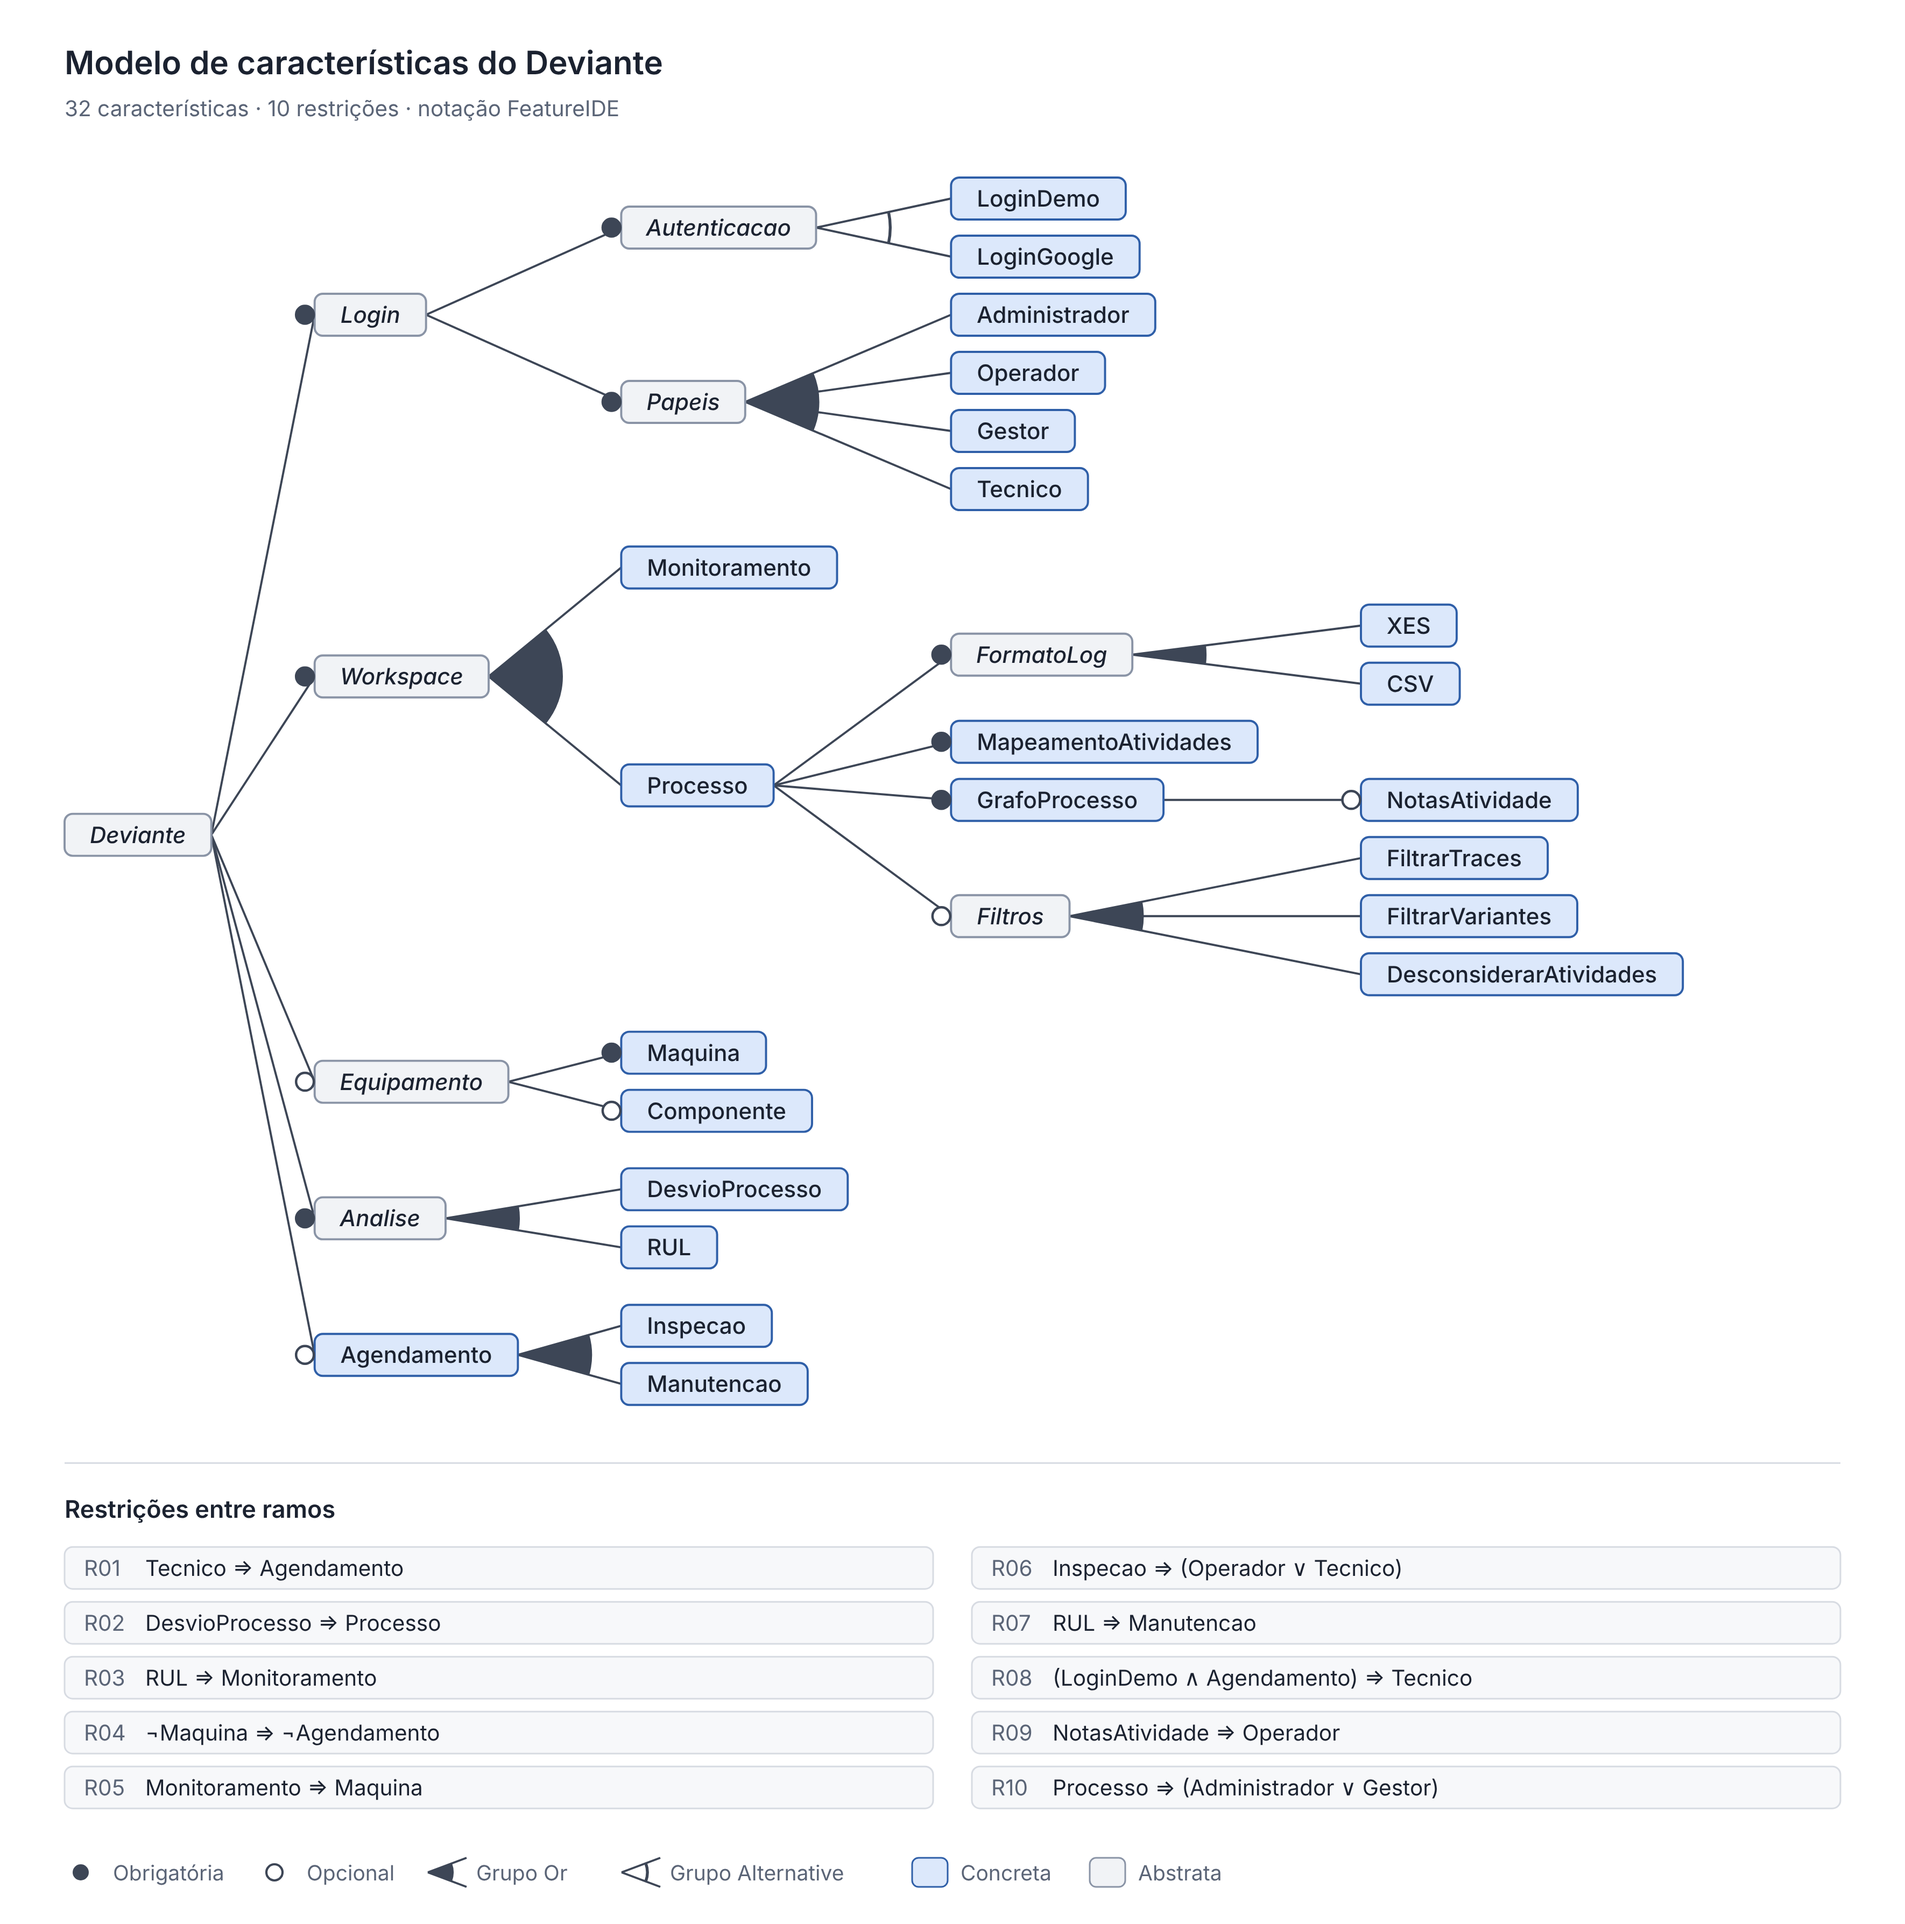
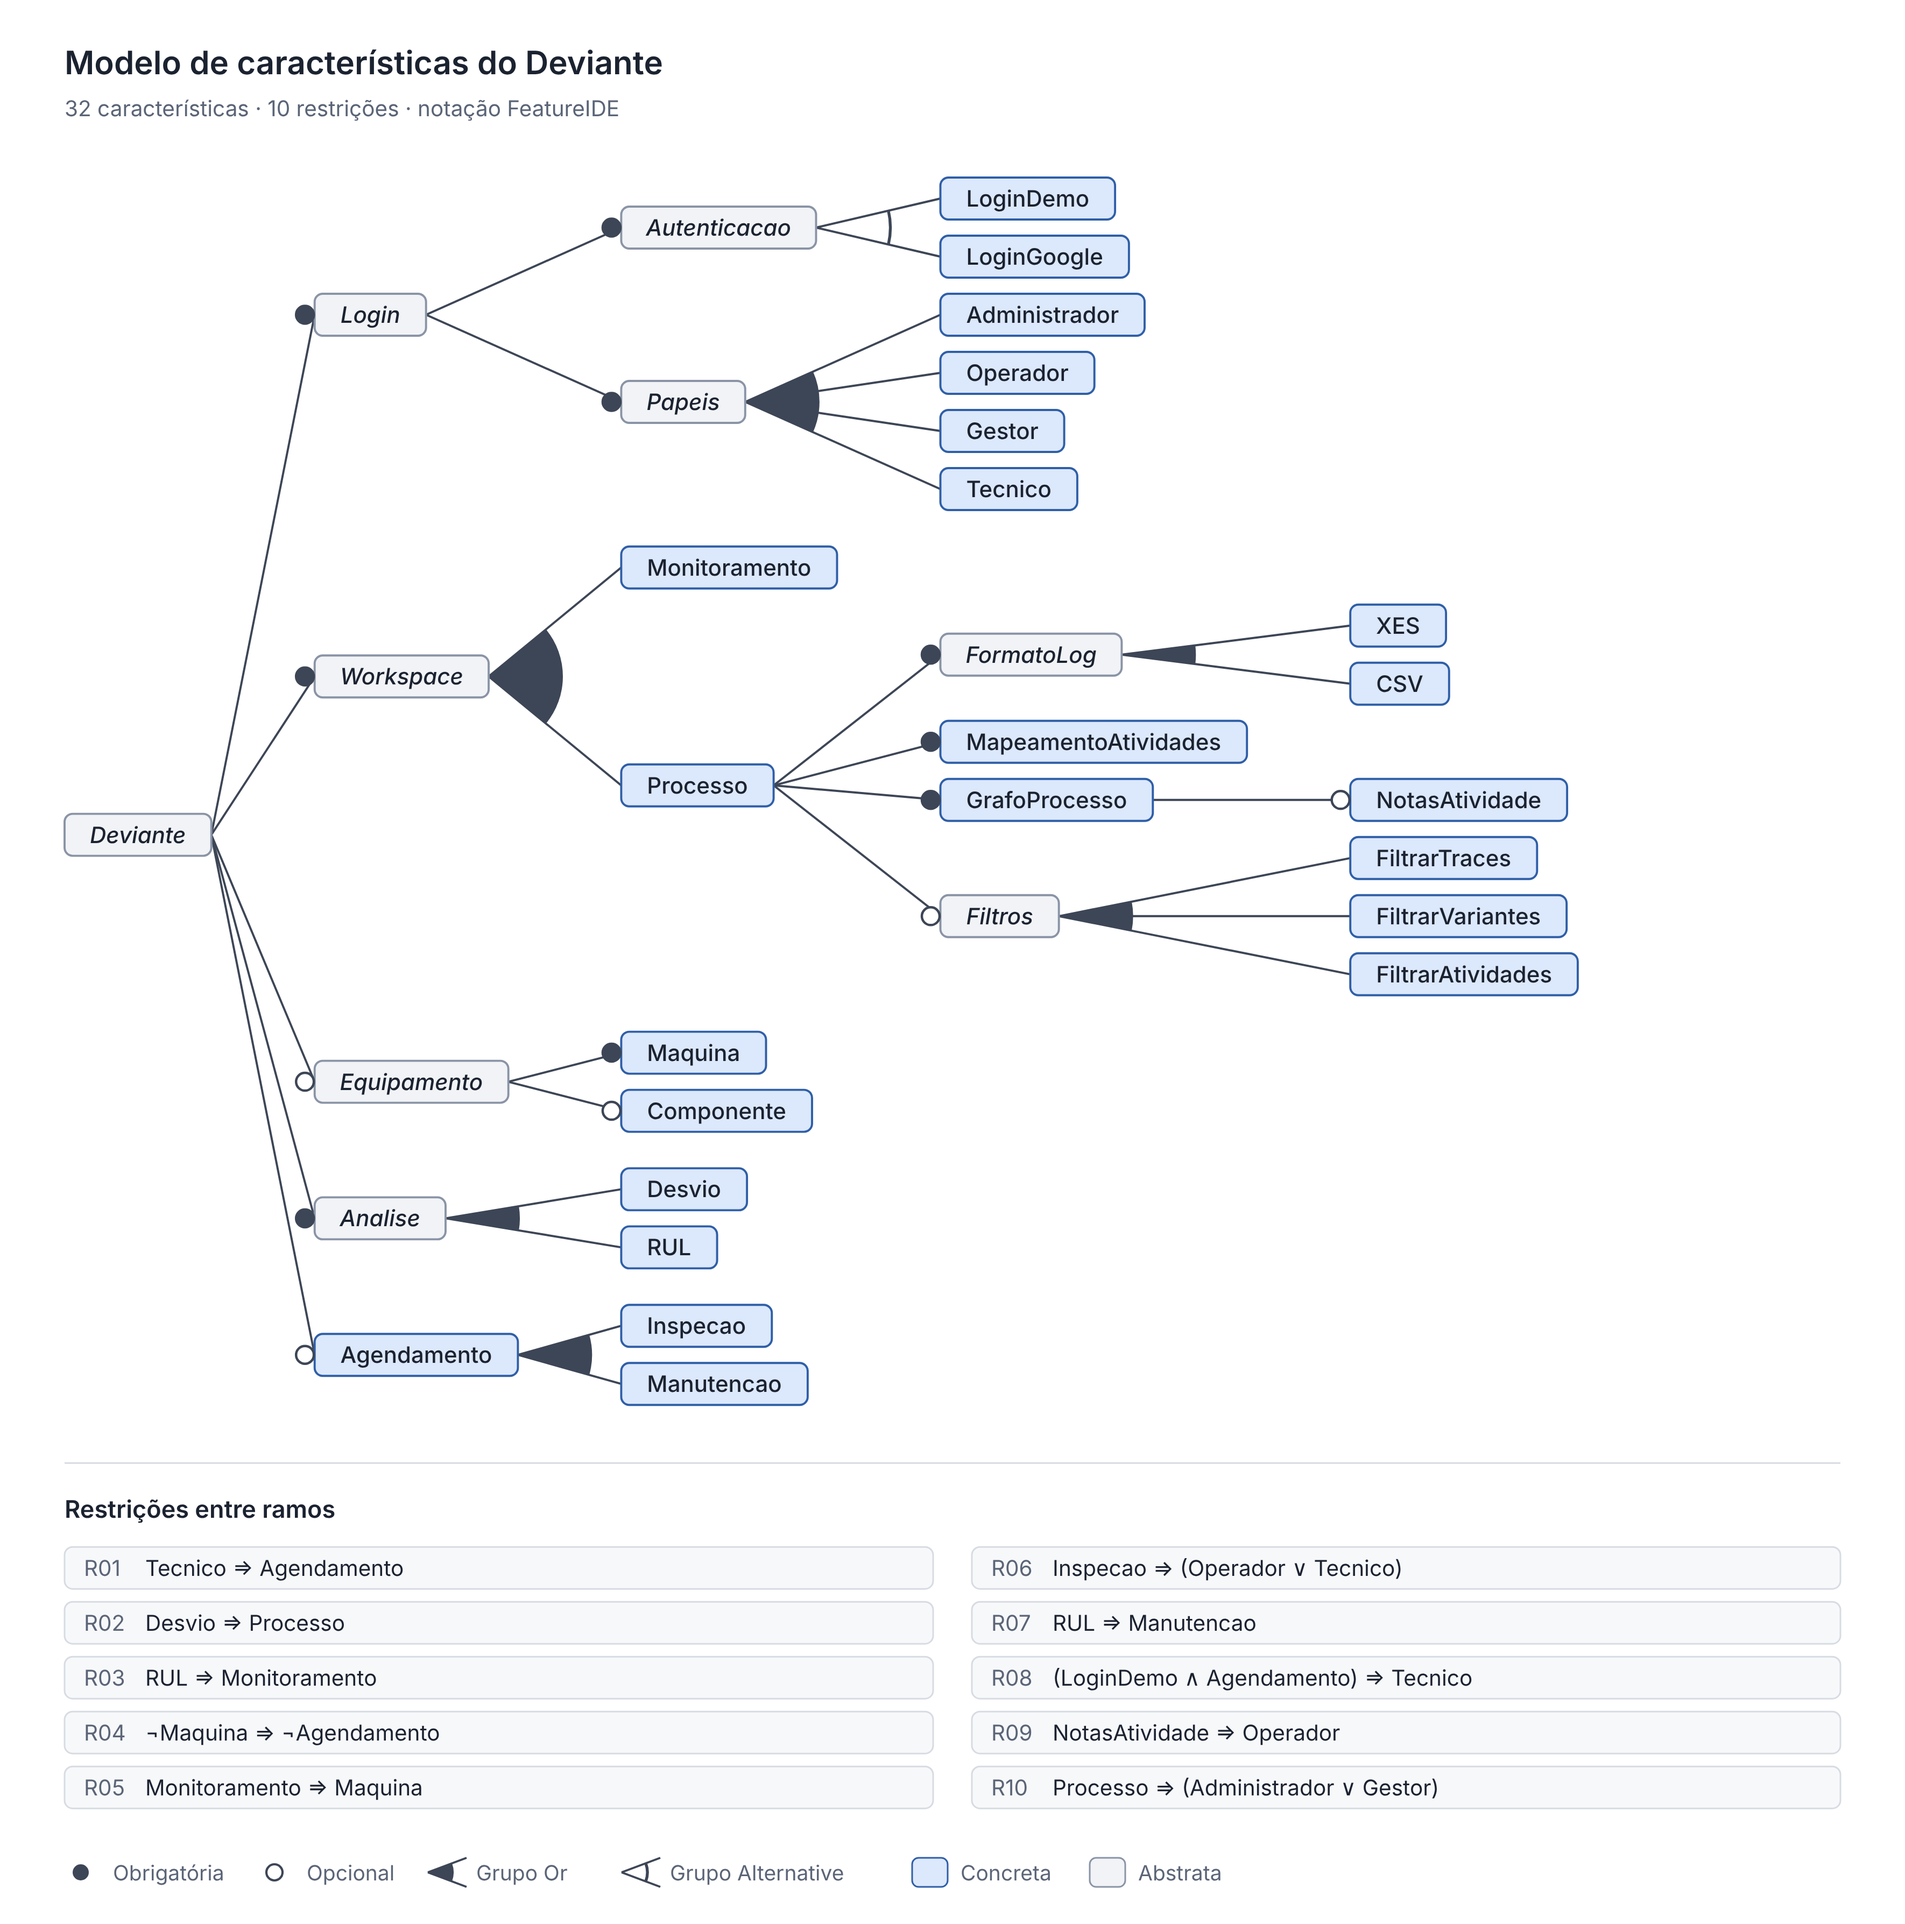
Reuso: nomes do modelo iguais à árvore do Eclipse (Desvio, FiltrarAtividades) e layout automático no model.xml
Claude-Session: https://claude.ai/code/session_01Rd7ezaaWW7sfq1WiDzid94

diff --git a/Desenvolvimento Orientado a Reuso/featureide/gerar.py b/Desenvolvimento Orientado a Reuso/featureide/gerar.py
@@ -43,7 +43,7 @@ MODELO = F("Deviante", "Deviante", abstrata=True, obrig=True, filhos=[
             F("Filtros", "Filtros", "or", abstrata=True, filhos=[
                 F("FiltrarTraces", "Filtrar traces"),
                 F("FiltrarVariantes", "Filtrar variantes"),
-                F("DesconsiderarAtividades", "Desconsiderar atividades"),
+                F("FiltrarAtividades", "Filtrar atividades"),
             ]),
         ]),
     ]),
@@ -52,7 +52,7 @@ MODELO = F("Deviante", "Deviante", abstrata=True, obrig=True, filhos=[
         F("Componente", "Componente"),
     ]),
     F("Analise", "Análise", "or", abstrata=True, obrig=True, filhos=[
-        F("DesvioProcesso", "Desvio de processo (drift)"),
+        F("Desvio", "Desvio de processo (drift)"),
         F("RUL", "Vida útil restante (RUL)"),
     ]),
     F("Agendamento", "Agendamento", "or", filhos=[
@@ -70,7 +70,7 @@ def NOT(a): return ("not", a)
 
 RESTRICOES = [
     (IMP(V("Tecnico"), V("Agendamento")), "O técnico só trabalha na agenda; sem Agendamento ele não tem tela."),
-    (IMP(V("DesvioProcesso"), V("Processo")), "O drift é detectado no log de eventos de um processo."),
+    (IMP(V("Desvio"), V("Processo")), "O drift é detectado no log de eventos de um processo."),
     (IMP(V("RUL"), V("Monitoramento")), "O RUL usa as leituras de sensores das máquinas monitoradas."),
     (IMP(NOT(V("Maquina")), NOT(V("Agendamento"))), "Todo agendamento é de uma máquina: sem cadastro de máquinas não há agenda."),
     (IMP(V("Monitoramento"), V("Maquina")), "O monitoramento acompanha máquinas já cadastradas."),
@@ -83,11 +83,11 @@ RESTRICOES = [
 
 # Configurações (features concretas e de plano escolhidas; o resto é derivado)
 EMPRESAS = {
-    "Deviante": ["LoginGoogle", "XES", "CSV", "Processo", "MapeamentoAtividades", "GrafoProcesso", "NotasAtividade", "FiltrarTraces", "FiltrarVariantes", "DesconsiderarAtividades", "DesvioProcesso", "Administrador", "Gestor", "Operador", "Maquina", "Monitoramento", "RUL", "Manutencao", "Tecnico"],
-    "Alfa": ["LoginDemo", "XES", "Processo", "MapeamentoAtividades", "GrafoProcesso", "NotasAtividade", "FiltrarTraces", "FiltrarVariantes", "DesconsiderarAtividades", "DesvioProcesso", "Administrador", "Gestor", "Operador", "Maquina", "Monitoramento", "Manutencao", "Tecnico"],
-    "Beta": ["LoginDemo", "CSV", "Processo", "MapeamentoAtividades", "GrafoProcesso", "NotasAtividade", "FiltrarTraces", "FiltrarVariantes", "DesconsiderarAtividades", "DesvioProcesso", "Administrador", "Gestor", "Operador"],
-    "Gama": ["LoginDemo", "XES", "Processo", "MapeamentoAtividades", "GrafoProcesso", "NotasAtividade", "FiltrarTraces", "FiltrarVariantes", "DesconsiderarAtividades", "DesvioProcesso", "Administrador", "Gestor", "Operador", "Maquina", "Monitoramento", "RUL", "Manutencao", "Tecnico"],
-    "Delta": ["LoginDemo", "XES", "Processo", "MapeamentoAtividades", "GrafoProcesso", "NotasAtividade", "FiltrarTraces", "FiltrarVariantes", "DesconsiderarAtividades", "DesvioProcesso", "Administrador", "Gestor", "Operador"],
+    "Deviante": ["LoginGoogle", "XES", "CSV", "Processo", "MapeamentoAtividades", "GrafoProcesso", "NotasAtividade", "FiltrarTraces", "FiltrarVariantes", "FiltrarAtividades", "Desvio", "Administrador", "Gestor", "Operador", "Maquina", "Monitoramento", "RUL", "Manutencao", "Tecnico"],
+    "Alfa": ["LoginDemo", "XES", "Processo", "MapeamentoAtividades", "GrafoProcesso", "NotasAtividade", "FiltrarTraces", "FiltrarVariantes", "FiltrarAtividades", "Desvio", "Administrador", "Gestor", "Operador", "Maquina", "Monitoramento", "Manutencao", "Tecnico"],
+    "Beta": ["LoginDemo", "CSV", "Processo", "MapeamentoAtividades", "GrafoProcesso", "NotasAtividade", "FiltrarTraces", "FiltrarVariantes", "FiltrarAtividades", "Desvio", "Administrador", "Gestor", "Operador"],
+    "Gama": ["LoginDemo", "XES", "Processo", "MapeamentoAtividades", "GrafoProcesso", "NotasAtividade", "FiltrarTraces", "FiltrarVariantes", "FiltrarAtividades", "Desvio", "Administrador", "Gestor", "Operador", "Maquina", "Monitoramento", "RUL", "Manutencao", "Tecnico"],
+    "Delta": ["LoginDemo", "XES", "Processo", "MapeamentoAtividades", "GrafoProcesso", "NotasAtividade", "FiltrarTraces", "FiltrarVariantes", "FiltrarAtividades", "Desvio", "Administrador", "Gestor", "Operador"],
 }
 
 # ---------- utilidades ----------
@@ -121,7 +121,7 @@ def xml_expr(e, ind):
     return f"{pad}<{tag}>\n" + "".join(xml_expr(x, ind + 1) for x in e[1:]) + f"{pad}</{tag}>\n"
 
 def gerar_model_xml():
-    s = '<?xml version="1.0" encoding="UTF-8" standalone="no"?>\n<featureModel>\n\t<properties/>\n\t<struct>\n'
+    s = '<?xml version="1.0" encoding="UTF-8" standalone="no"?>\n<featureModel>\n\t<properties>\n\t\t<graphics key="showconstraints" value="true"/>\n\t\t<graphics key="showshortnames" value="false"/>\n\t\t<graphics key="layout" value="horizontal"/>\n\t\t<graphics key="showcollapsedconstraints" value="true"/>\n\t\t<graphics key="legendhidden" value="false"/>\n\t\t<graphics key="legendautolayout" value="true"/>\n\t\t<graphics key="autolayoutconstraints" value="true"/>\n\t\t<graphics key="layoutalgorithm" value="1"/>\n\t</properties>\n\t<struct>\n'
     s += xml_no(MODELO, 2)
     s += "\t</struct>\n\t<constraints>\n"
     for i, (e, just) in enumerate(RESTRICOES, 1):
